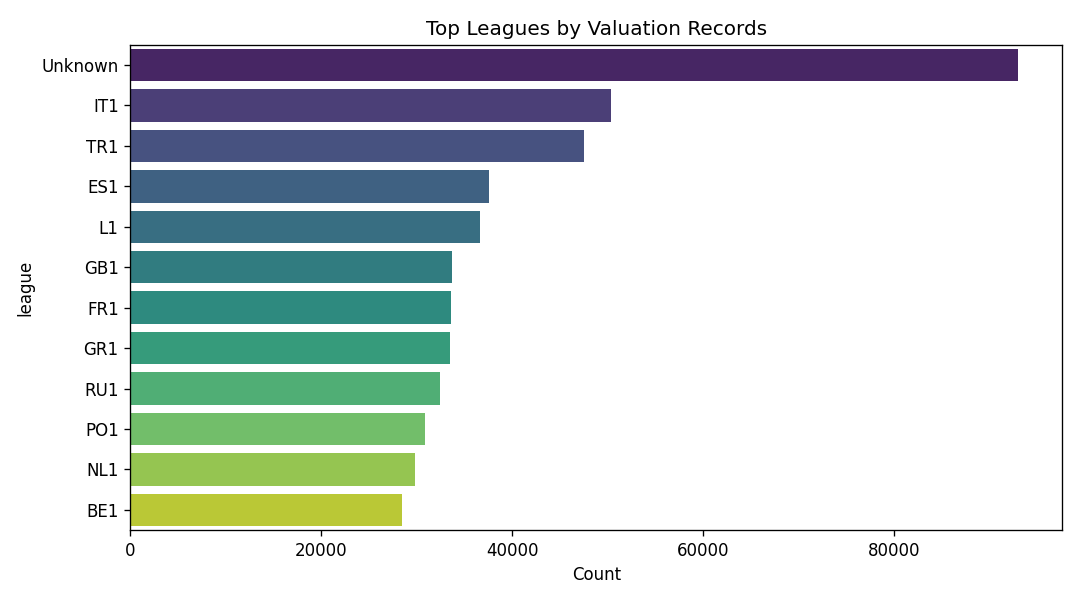
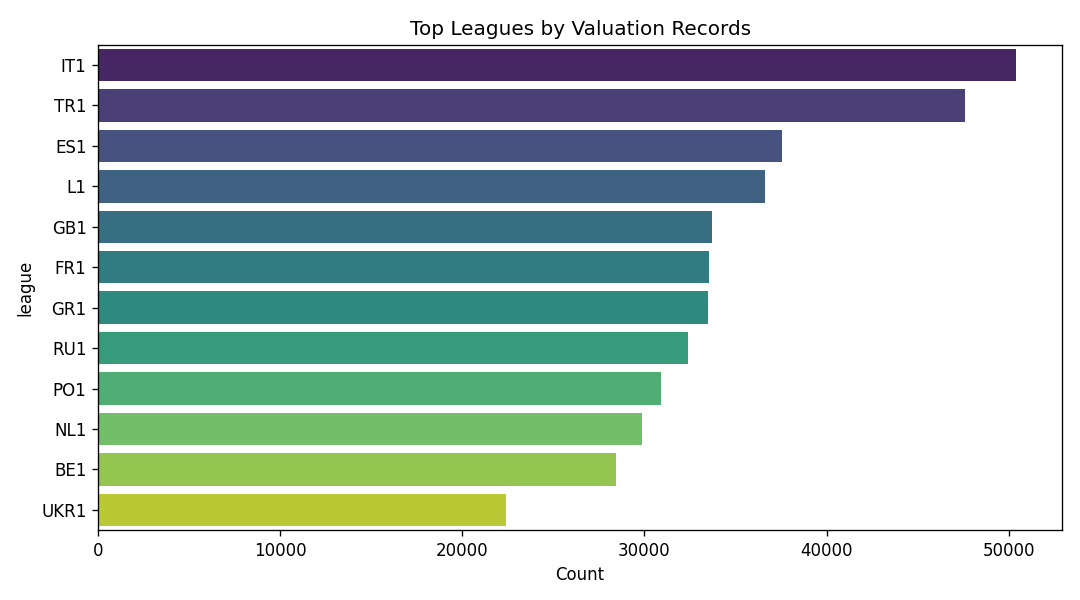
Update top leagues visualization to exclude 'Unknown' entries

diff --git a/src/eda.py b/src/eda.py
@@ -49,7 +49,8 @@ plt.close(fig)
 
 # 4. Top leagues
 fig, ax = plt.subplots(figsize=(9, 5))
-top = df["league"].value_counts().head(12)
+top = df["league"].value_counts()
+top = top[top.index != "Unknown"].head(12)
 sns.barplot(x=top.values, y=top.index, ax=ax, palette="viridis")
 ax.set_title("Top Leagues by Valuation Records")
 ax.set_xlabel("Count")
